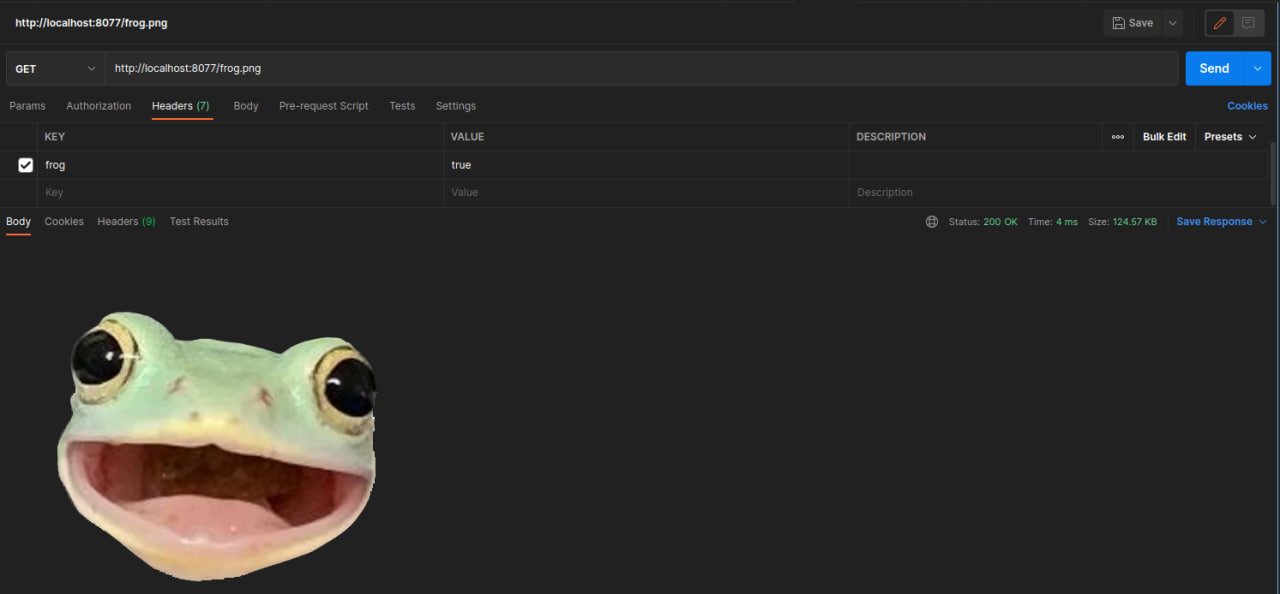
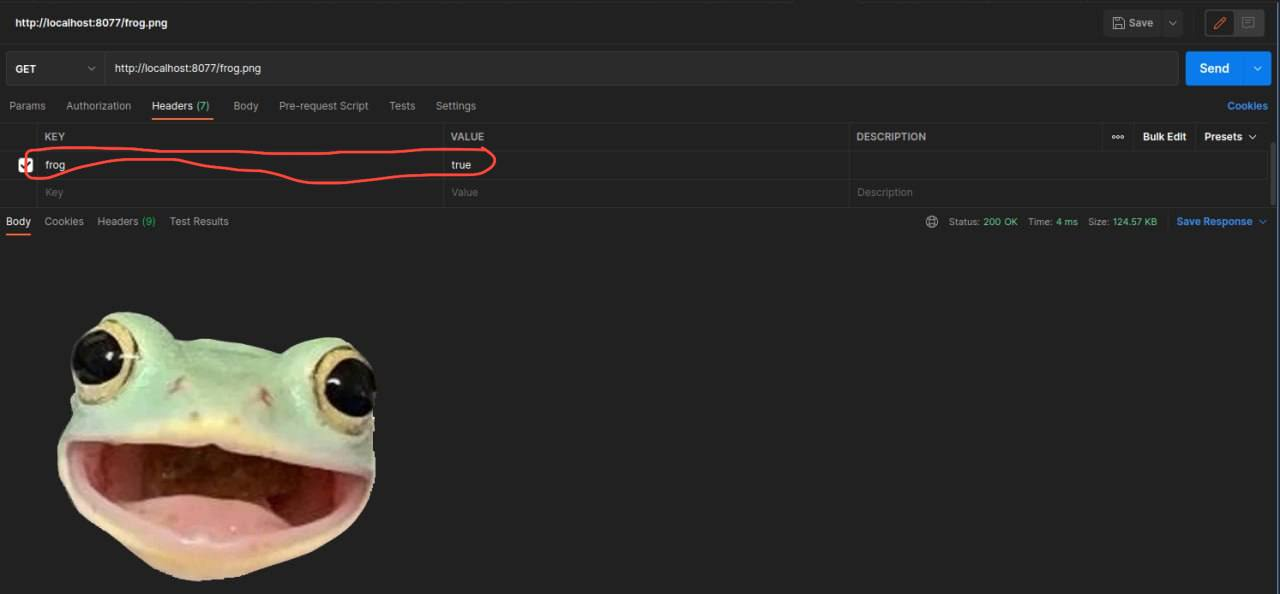
add_Nginx_add_Ling_and_update_Image

diff --git a/README.md b/README.md
@@ -6,6 +6,10 @@
 docker-compose up -d
 ```
 
+## Wisit this link to receive the image:
+
+[http://localhost:8077/frog.png](http://localhost:8077/frog.png)
+
 ### First Request: 
 
 - Response: ![First request response.](./example_images/photo_1.jpg)
@@ -43,7 +47,7 @@ docker-compose up -d
 
 - Headers: ![First request headers.](./example_images/photo_cache_hit.jpg)
 
-### Fifth request(rewriting cache):
+### Fifth request(rewriting cache with custom header `frog`):
 
 - Response: ![First request response.](./example_images/photo_2.jpg)
 
